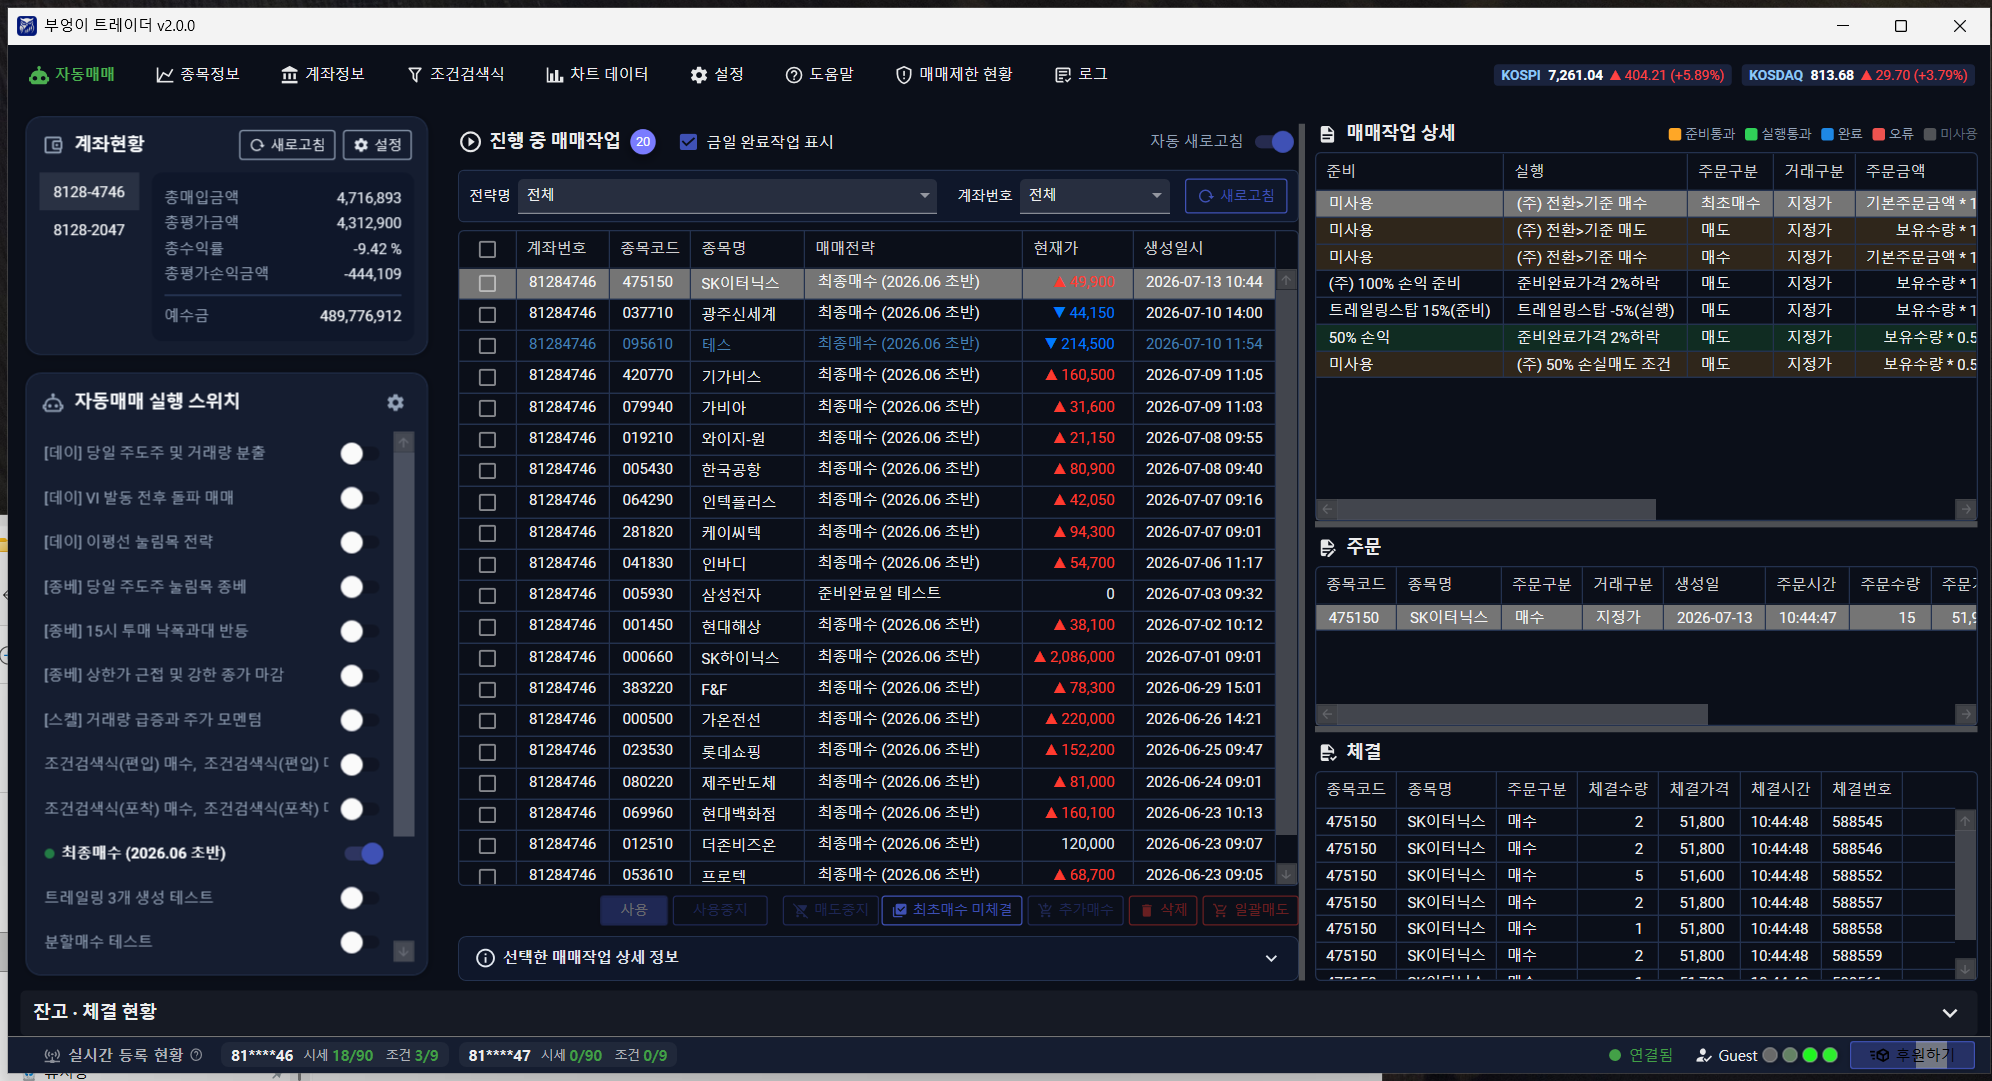
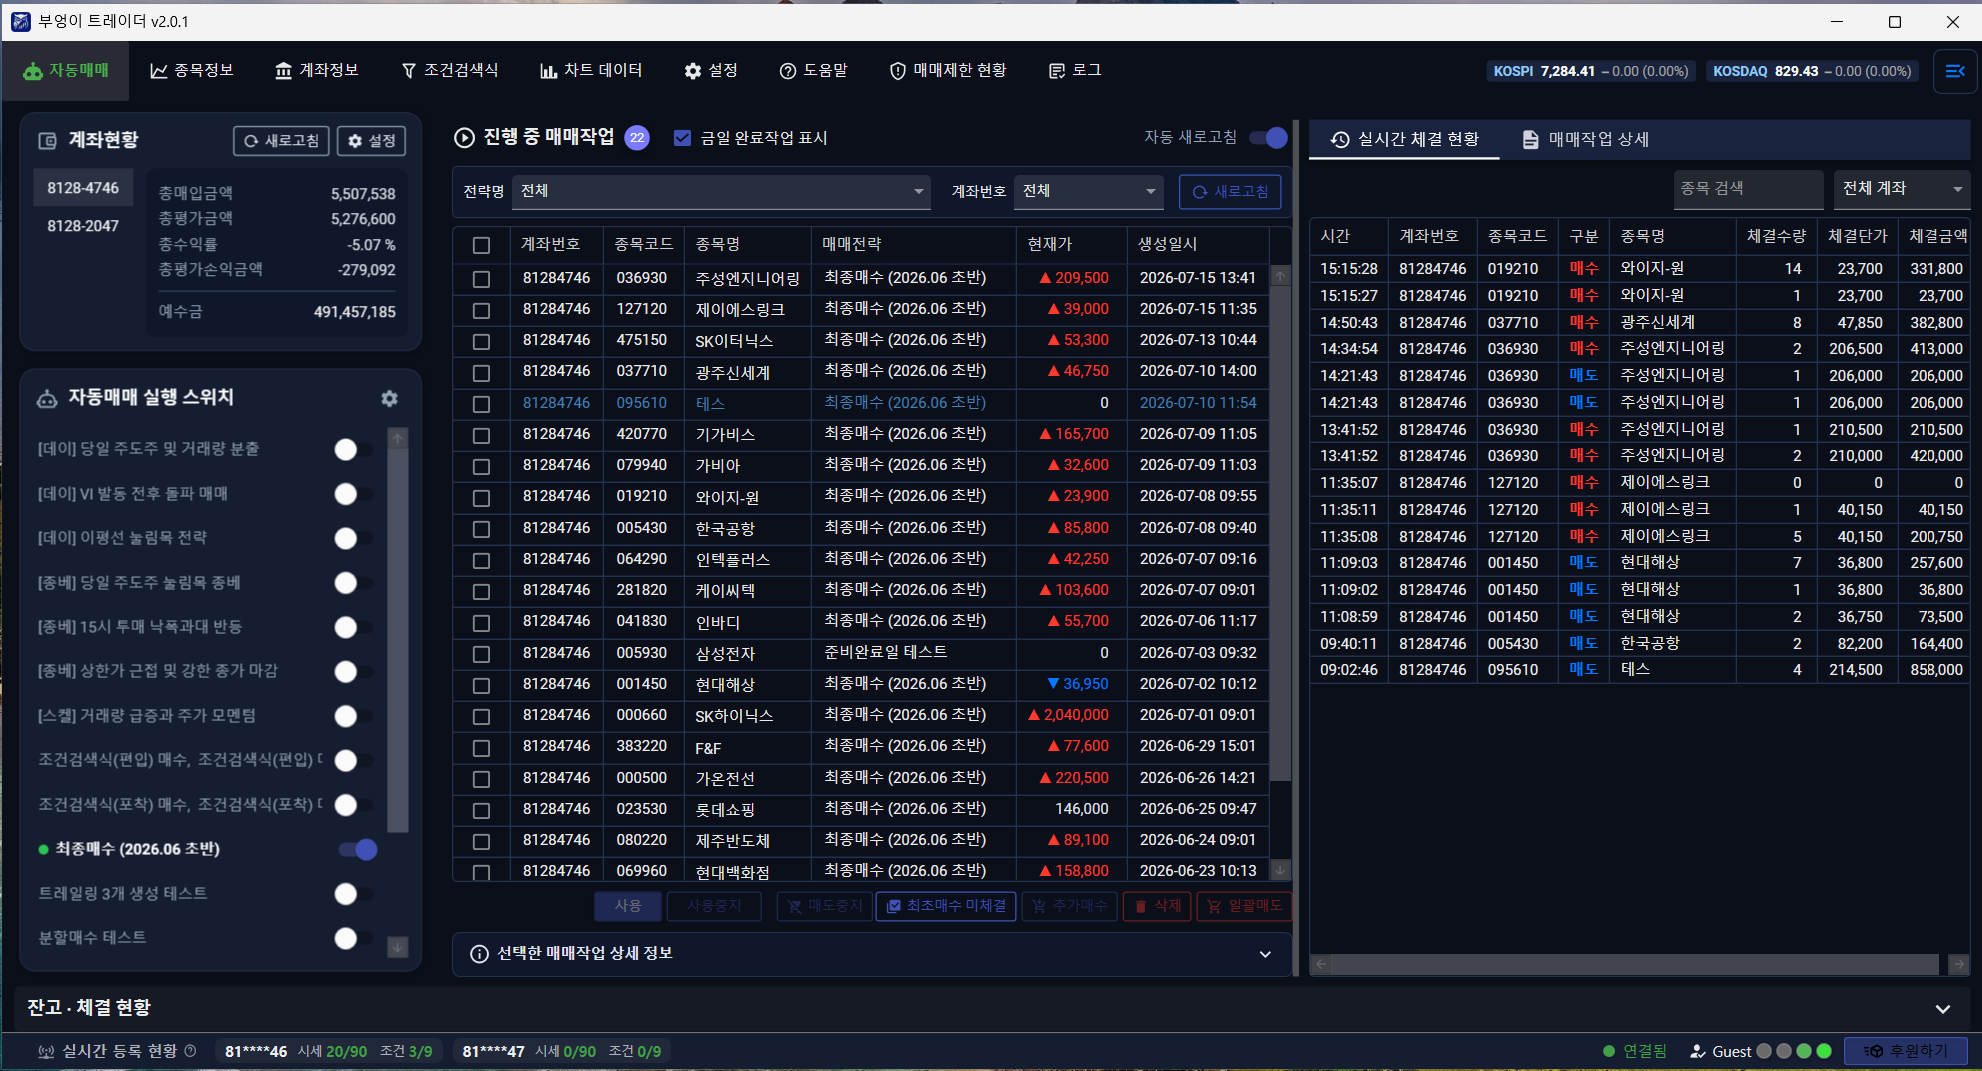
docs: 설명서 v2.0.1 — 메인 화면 실시간 체결 현황 탭·사이드바 접기 반영
- 자동매매 현황 대시보드 우측을 탭 구조로 안내 (실시간 체결 현황 / 매매작업 상세)
- 좌측 계좌·스위치 사이드바 접기/펼치기 설명 및 스크린샷 추가
- 문서 버전 2.0.1로 갱신(개정 이력 포함), 메인 화면 스크린샷 교체

Changed region(s): [[0.0, 0.0, 1.0, 1.0]]

diff --git a/src/content/manual.md b/src/content/manual.md
@@ -1,6 +1,6 @@
 ---
 title: 부엉이 트레이더 사용자 설명서
-version: 2.0.0
+version: 2.0.1
 lastUpdated: 2026. 7. 15.
 ---
 
@@ -41,7 +41,7 @@ lastUpdated: 2026. 7. 15.
 | 항목 | 내용 |
 |---|---|
 | **프로그램명** | 부엉이 트레이더 (부엉이 주식자동매매 프로그램) |
-| **문서 적용 버전** | 2.0.0 |
+| **문서 적용 버전** | 2.0.1 |
 | **운영체제** | Windows 10 이상 (64비트) |
 | **필수 연동** | 키움증권 REST API |
 
@@ -51,6 +51,7 @@ lastUpdated: 2026. 7. 15.
 
 | 버전 | 주요 변경 내용 |
 |---|---|
+| **2.0.1** | 자동매매 현황 대시보드 우측에 **실시간 체결 현황** 탭을 추가하고, 좌측 계좌·스위치 사이드바 **접기/펼치기** 기능을 반영했습니다. |
 | **2.0.0** | 메인 화면 구성 및 설정 화면 재편에 맞추어 설명서를 전면 재작성했습니다. |
 
 ## 1.2 부엉이 트레이더란?
@@ -232,9 +233,13 @@ lastUpdated: 2026. 7. 15.
 | 영역 | 위치 | 내용 |
 |---|---|---|
 | **① 상단 바** | 화면 최상단 | 좌측에 **메뉴바**, 우측에 **업종지수 틱커**(KOSPI/KOSDAQ)가 한 줄에 나란히 배치됩니다. |
-| **② 좌측 패널 스택** | 본문 왼쪽(폭 고정) | 위에서부터 **계좌현황** 패널과 **자동매매 실행 스위치** 패널이 세로로 쌓여 상시 표시됩니다. |
+| **② 좌측 패널 스택** | 본문 왼쪽(폭 고정) | 위에서부터 **계좌현황** 패널과 **자동매매 실행 스위치** 패널이 세로로 쌓여 표시되며, 상단 바의 토글 버튼으로 접거나 펼칠 수 있습니다. |
 | **③ 자동매매 현황 대시보드** | 본문 오른쪽(넓은 영역) | **진행 중인 매매작업**과 선택 작업의 명세·주문·체결을 한 화면에서 모니터링·조작하는 핵심 영역입니다. |
 | **④ 하단 접이식 탭 + 상태바** | 본문 아래 ~ 최하단 | **잔고 · 체결 현황** 접이식 탭 그룹과, 화면 맨 아래의 **상태바**(실시간 등록 현황·연결 상태·신호등)로 구성됩니다. |
+
+💡 **팁 — 사이드바 접기/펼치기:** 상단 바 오른쪽 끝(업종지수 틱커 옆)의 **토글 버튼(☰)** 을 누르면 좌측의 **계좌현황·자동매매 실행 스위치** 사이드바를 접거나 펼칠 수 있습니다. 사이드바를 접으면 그만큼 **자동매매 현황 대시보드가 더 넓게** 표시되어, 진행 중 매매작업과 체결 현황을 여유롭게 볼 수 있습니다.
+
+![좌측 사이드바를 접은 메인 화면](/images/manual/main-sidebar-collapsed.png)
 
 📌 **참고:** 부엉이 트레이더는 **다크 네이비 테마로 고정**되어 있습니다. 화면 색상을 바꾸는 테마 변경 기능은 제공하지 않으며, 별도 설정 없이 항상 어두운 네이비 화면으로 표시됩니다. 야간 장시간 모니터링에도 눈의 피로가 적도록 설계된 화면입니다.
 
@@ -404,7 +409,7 @@ API 키 등록, 알림, 자동화 등 프로그램 운영에 필요한 설정을
 
 ## 3.5 자동매매 현황 대시보드
 
-메인 화면 오른쪽 넓은 영역을 차지하는 핵심 화면으로, **진행 중인 매매작업 목록**과 선택한 작업의 **명세·주문·체결**을 한 화면에서 모니터링하고 조작합니다. 좌우 두 영역은 가운데 경계선을 드래그하여 비율을 조절할 수 있습니다.
+메인 화면 오른쪽 넓은 영역을 차지하는 핵심 화면으로, **진행 중인 매매작업 목록**과 함께 **실시간 체결 현황** 및 선택한 작업의 **상세 정보(명세·주문·체결)** 를 한 화면에서 모니터링하고 조작합니다. 좌우 두 영역은 가운데 경계선을 드래그하여 비율을 조절할 수 있습니다.
 
 ![진행 중 매매작업 목록](/images/manual/main-active-jobs.png)
 
@@ -460,9 +465,28 @@ API 키 등록, 알림, 자동화 등 프로그램 운영에 필요한 설정을
 
 목록 아래에는 선택한 작업의 상세 정보를 펼쳐 볼 수 있는 접이식 패널이 있습니다(처음에는 접혀 있음). 전략명, 사용·완료·오류 여부, 주문금액, 생성일시, 사용중지 사유, 오류 메시지 등을 확인할 수 있습니다.
 
-### 3.5.2 우측 — 명세 / 주문 / 체결
+### 3.5.2 우측 — 실시간 체결 현황 / 매매작업 상세 (탭)
 
-오른쪽 영역은 위에서부터 **명세 · 주문 · 체결** 세 단으로 나뉘며, 각 경계선을 드래그해 높이를 조절할 수 있습니다. 왼쪽 목록에서 매매작업을 선택하면 그 작업 기준으로 세 단이 채워집니다.
+오른쪽 영역은 **[실시간 체결 현황]** 과 **[매매작업 상세]** 두 개의 탭으로 구성됩니다. 위쪽 탭을 눌러 전환합니다.
+
+#### 실시간 체결 현황 탭
+
+매매가 체결될 때마다 그 내역이 **최신순으로 실시간 누적**되는 탭입니다. 프로그램을 실행하면 먼저 **당일 체결분**이 채워지고, 이후 새로 발생하는 체결이 맨 위에 추가됩니다.
+
+- 상단의 **종목 검색** 입력란으로 특정 종목만 걸러 볼 수 있고, **계좌 필터**로 계좌별로 나눠 볼 수 있습니다.
+- 체결 내역이 없으면 "체결 내역이 없습니다"가 표시되며, 매매가 체결되면 이곳에 실시간으로 나타납니다.
+
+| 컬럼 | 설명 |
+|---|---|
+| **시간** | 체결이 이루어진 시각 |
+| **계좌번호** | 체결이 발생한 계좌 |
+| **종목코드 / 종목명** | 체결된 종목 |
+| **구분** | 매수(빨강) / 매도(파랑) |
+| **체결수량 / 체결단가 / 체결금액** | 체결된 수량·단가와 그 합계 금액 |
+
+#### 매매작업 상세 탭
+
+왼쪽 목록에서 매매작업을 선택하면, 그 작업 기준으로 위에서부터 **명세 · 주문 · 체결** 세 단이 채워집니다. 각 단의 경계선을 드래그해 높이를 조절할 수 있습니다.
 
 ![매매작업 상세(명세) 패널](/images/manual/main-job-spec-panel.png)
 